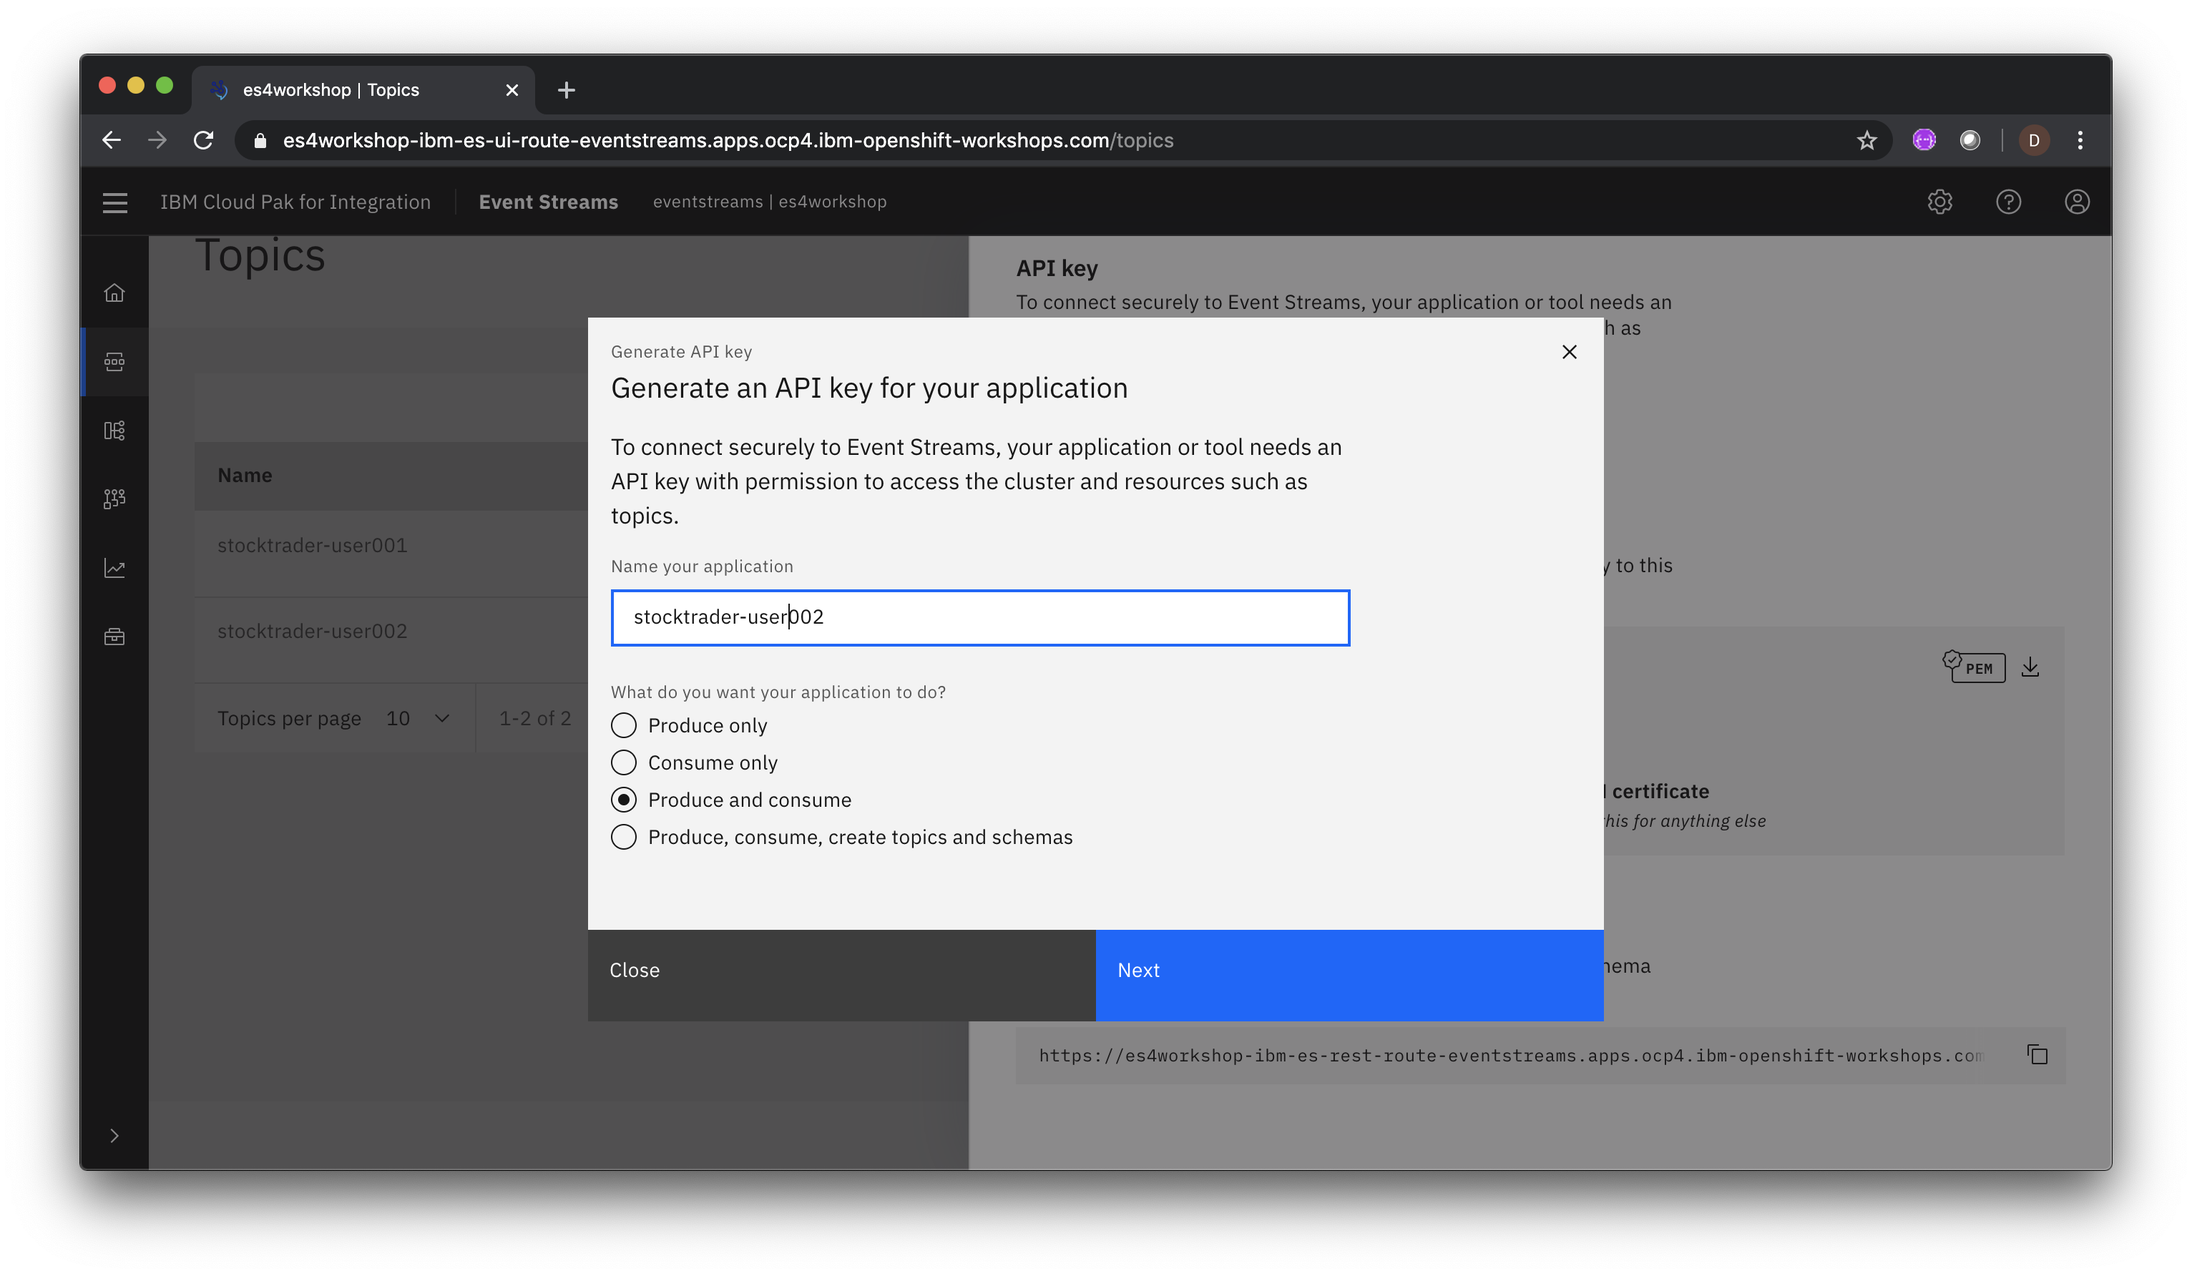
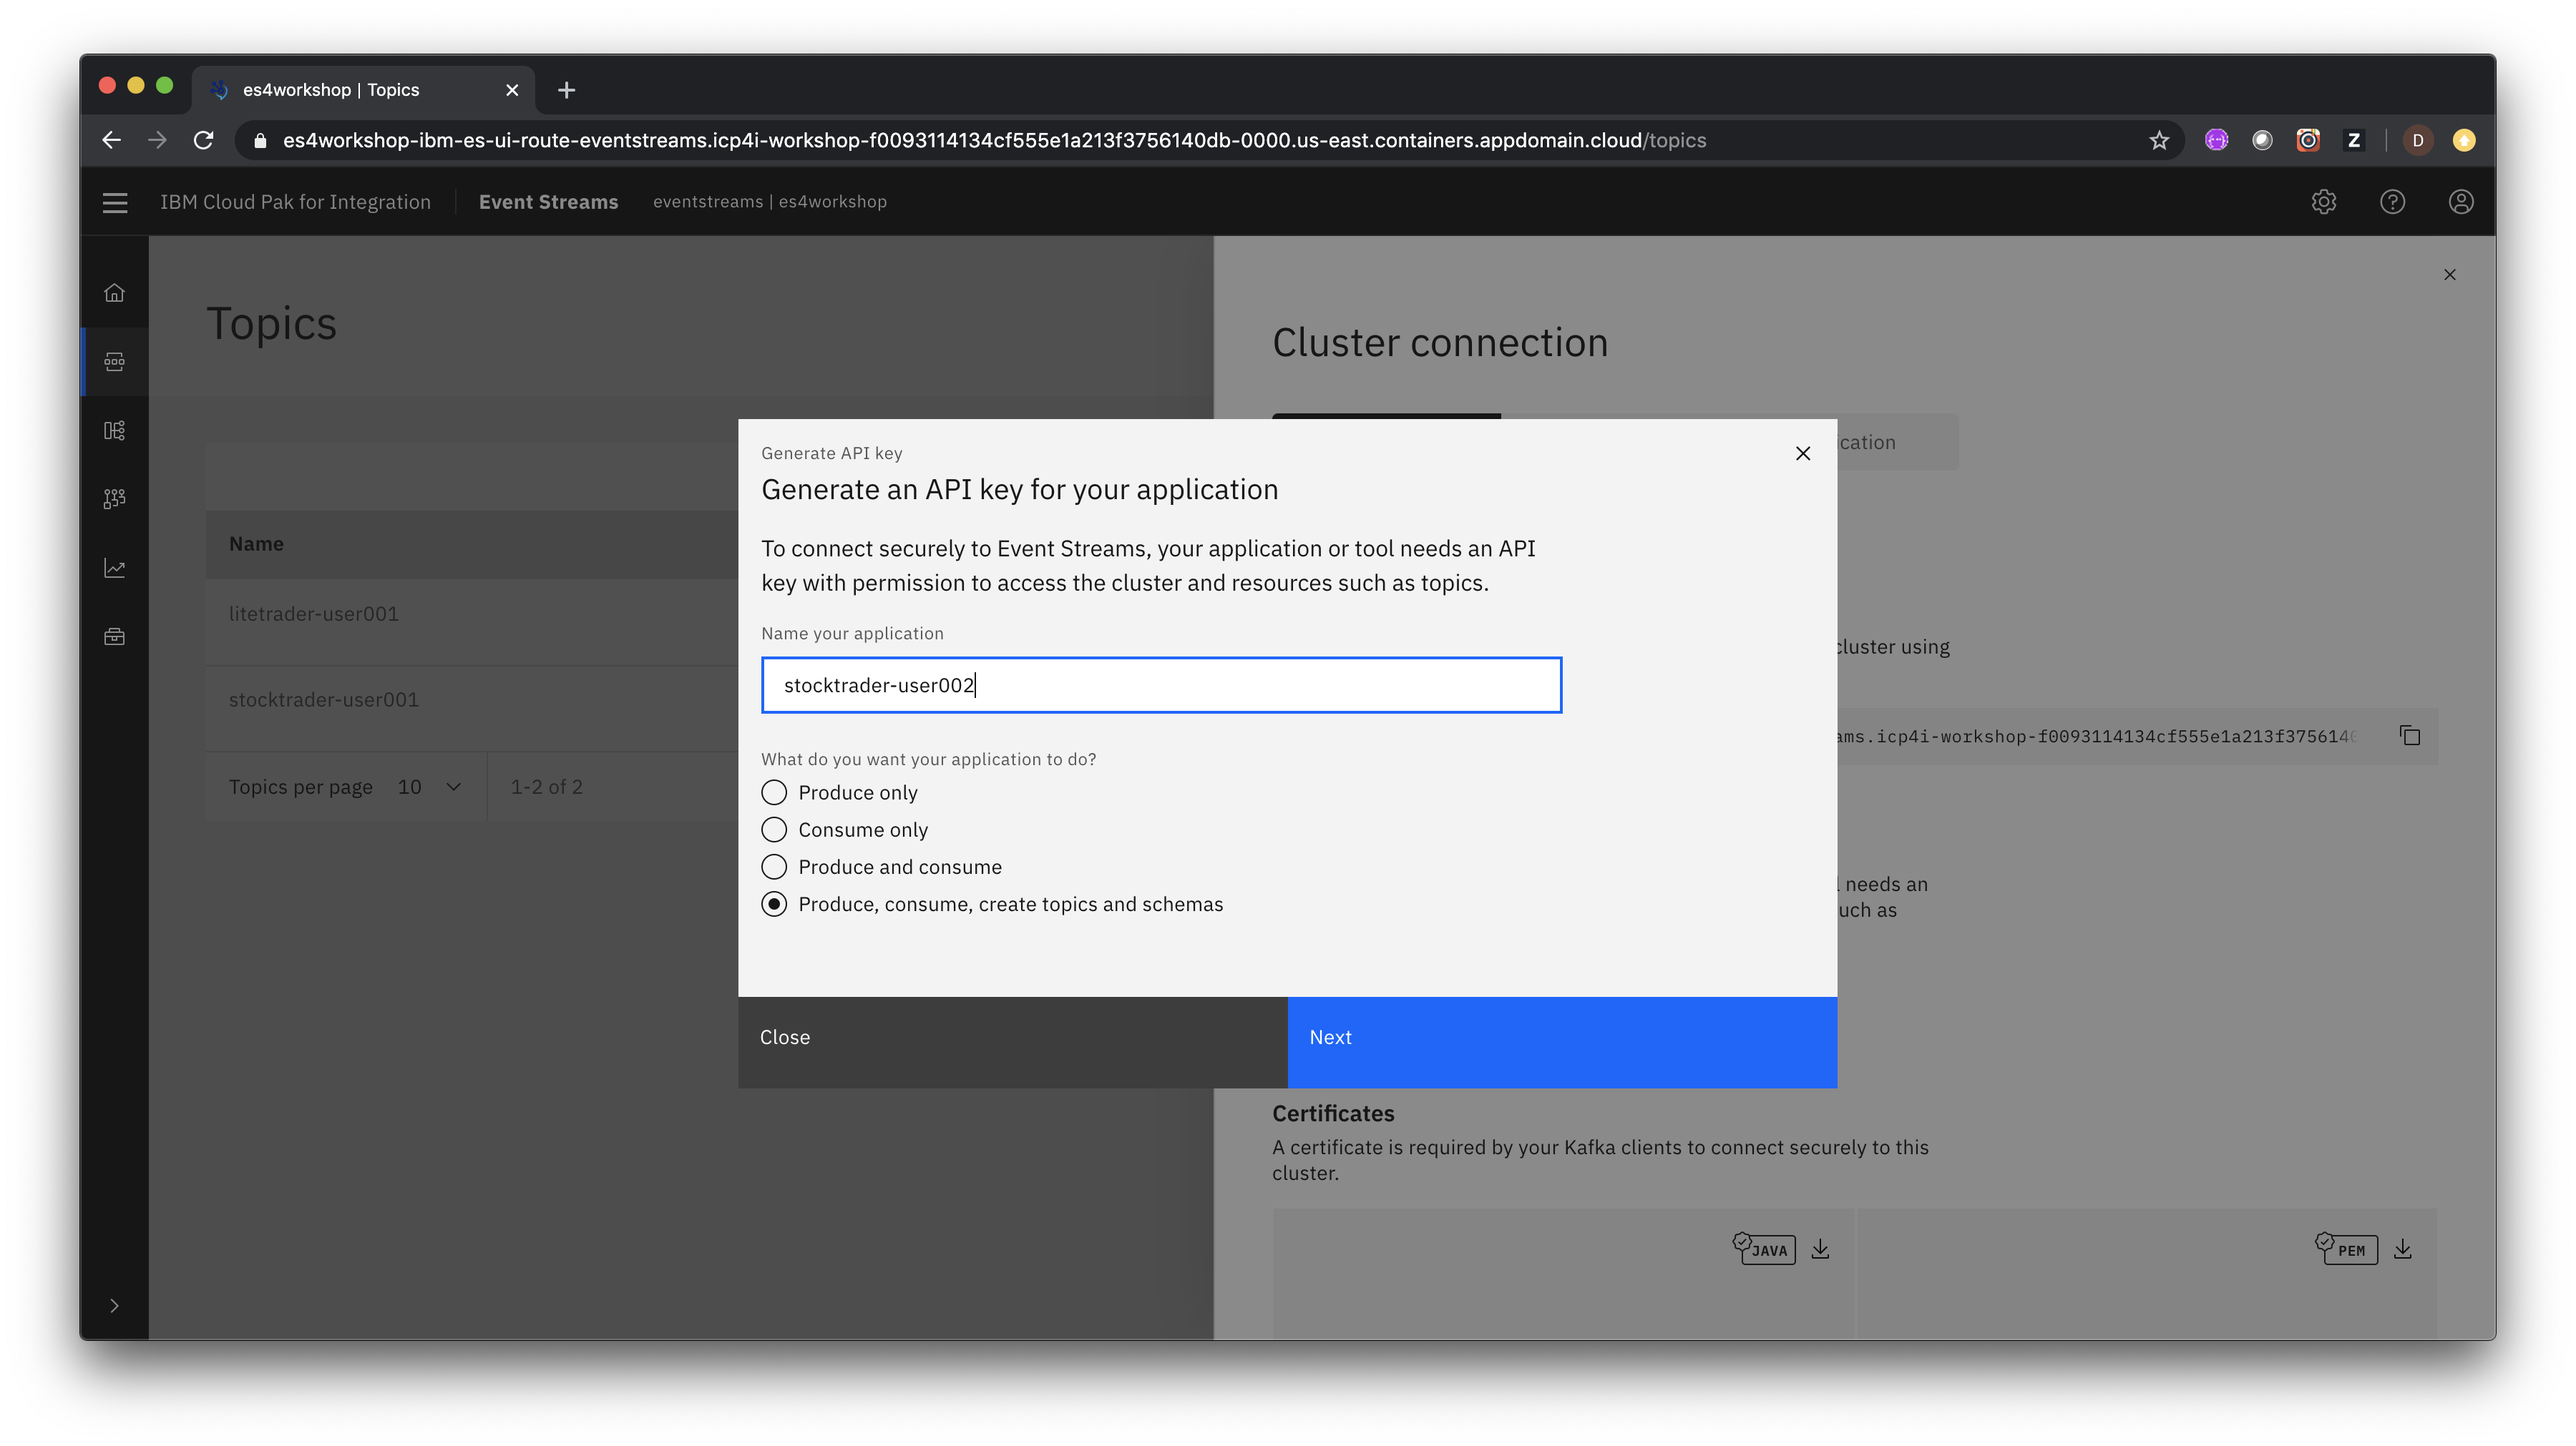
Updated to match updates in app

diff --git a/README.md b/README.md
@@ -14,9 +14,9 @@ The architecture of the solution you will build is shown below:
    * sends completed transactions to a local IBM MQ queue.
    * calls the **trade-history** service to get aggregated historical trade data.
 
-* The **event-producer** microservice consumes the  transaction data from IBM MQ and sends it to a topic in Event Streams. By scaling this service horizontally you can decrease the latency between the  time the transaction is committed to the transactional database and when it is available to be queried in the reporting database,
+* The **Kafka Connect** microservice uses the Kafka Connect framework and an IBM MQ source to consume the  transaction data from IBM MQ and sends it to a topic in Event Streams. By scaling this service horizontally you can decrease the latency between the  time the transaction is committed to the transactional database and when it is available to be queried in the reporting database,
 
-* The **event-consumer** microservice receives the transaction data from  Event Streams and calls the  **trade-history** service to publish the data to the reporting database. By scaling this service horizontally you can decrease the latency between the  time the transaction is committed to the transactional database and when it is available to be queried in the reporting database.
+* The **Kafka Connect** microservice uses the Kafka Connect framework and a Mongodb sink to receive the transaction data from  Event Streams and  publishes the data to the reporting database. By scaling this service horizontally you can decrease the latency between the  time the transaction is committed to the transactional database and when it is available to be queried in the reporting database.
 
 
 This lab is broken up into the following steps:
@@ -27,9 +27,9 @@ This lab is broken up into the following steps:
 
 1. [Upload the Java truststore to the IBM Cloud Shell](#step-3-upload-the-java-truststore-to-the-ibm-cloud-shell)
 
-1. [Add messaging components to the Stock Trader app](#step-4-add-messaging-components-to-the-stock-trader-app)
+1. [Add messaging components to the Trader Lite app](#step-4-add-messaging-components-to-the-trader-lite-app)
 
-1. [Generate some test data with the Stock Trader app](#step-5-generate-some-test-data-with-the-stock-trader-app)
+1. [Generate some test data with the Trader Lite app](#step-5-generate-some-test-data-with-the-trader-lite-app)
 
 1. [Verify transaction data was replicated to the Trade History database](#step-6-verify-transaction-data-was-replicated-to-the-trade-history-database)
 
@@ -77,11 +77,13 @@ This lab is broken up into the following steps:
 
 2.5 Name the application `stocktrader-user???` where `user???` is your assigned student id. For example if your student id is `user002` then name the application`stocktrader-user002`.
 
-2.6 Select **Produce and consume** for the capabilities of the API Key. Click **Next**.
+2.6 Select **Produce, consume, create topics and schemas** for the capabilities of the API Key. Click **Next**.
 
   ![API Key capabilities](images/api-key-capabilities.png)
 
-2.7 Enter the name of your topic e.g. `stocktrader-user002`. Click **Next**.
+2.7 Select all topics. Click **Next**.
+
+  ![All topics](images/all-topics.png)
 
 2.8 Click **Generate API key**
 
@@ -106,35 +108,66 @@ This lab is broken up into the following steps:
 3.2 Select the file **es-cert.jks** that you downloaded in the previous step and follow the prompts to upload it to the IBM Cloud Shell.
 
 
-## Step 4: Add messaging components to the Stock Trader app
+## Step 4: Add messaging components to the Trader Lite app
 
-4.1 you haven't previously cloned the Github repo with the Stock Trader app deployment artifacts, run the following command in the IBM Cloud Shell
+4.1 you haven't previously cloned the Github repo with the Trader Lite app deployment artifacts, run the following command in the IBM Cloud Shell
 
 ```
-git clone https://github.com/IBMStockTraderLite/stocktrader-cp4i.git
+git clone https://github.com/IBMStockTraderLite/traderlite-cp4i.git
 ```
 
 4.2 Go to the directory required to run the setup scripts
 
 ```
-cd stocktrader-cp4i/scripts
+cd traderlite-cp4i/scripts
 ```
 
 4.3 Run the following command, substituting the Bootstrap hostname and API Key that you saved earlier. Note that the third parameter is the Java truststore file that you just uploaded.
 
 ```
-./addMessaging.sh [BOOTSTRAP SERVER HOSTNAME] [YOUR API KEY] ../../es-cert.jks
+./addKafkaIntegration.sh [BOOTSTRAP SERVER HOSTNAME] [YOUR API KEY] ../../es-cert.jks
 ```
   The output should look like the following:
 
-  ![Add messaging script](images/add-messaging-script.png)
+  ```
+Script being run from correct folder
+Validating student id  ...
+Verifying that the Trader Lite Helm chart is already installed ...
+Found the Trader Lite Helm chart installed in this project
+Using stocktrader-user001 as Kafka topic name ...
+Upgrading Trader Lite Helm chart with Kafka Integration enabled ...
+Release "traderlite" has been upgraded. Happy Helming!
+NAME: traderlite
+LAST DEPLOYED: Mon Jun  1 12:17:51 2020
+NAMESPACE: trader-user001
+STATUS: deployed
+REVISION: 2
+NOTES:
+Trader Lite V2.0 is deployed.
 
-4.4 Wait for all the pods to start. Run the following command repeatedly until all the pods are in the *Ready* state as shown below
+Run  the following command to get the URL of  the applications's UI:
+ echo "http://"`oc get route traderlite-tradr  -o jsonpath='{.spec.host }'`"/tradr"
+Wait for all pods to be in the 'Ready' state before continuing
+  ```
+
+4.4 Wait for all the pods to start. Run the following command.
 
 ```
-oc get pods | grep -v deploy
+oc get pods
 ```
-  ![Pods running](images/pods-running.png)
+  Repeat the command until all the pods are in the *Ready* state as shown below:
+
+  ```
+NAME                                                   READY   STATUS    RESTARTS   AGE
+traderlite-ibm-mq-0                                    1/1     Running   0          64s
+traderlite-kafka-connect-standalone-5f4dcbb546-pq7qx   1/1     Running   0          66s
+traderlite-mariadb-0                                   1/1     Running   0          44m
+traderlite-mongodb-6c79bf9554-kd5z8                    1/1     Running   0          44m
+traderlite-portfolio-6d55889b8c-6c28l                  1/1     Running   0          65s
+traderlite-stock-quote-7965448598-lzwqh                1/1     Running   0          44m
+traderlite-trade-history-5648f749c4-5hbhq              1/1     Running   0          44m
+traderlite-tradr-6cd8d879f4-hbcfr                      1/1     Running   0          44m
+  ```
 
 
 ## Step 5: Generate some test data with the Stock Trader app
@@ -142,7 +175,7 @@ oc get pods | grep -v deploy
 5.1 From the command line run the following script:
 
 ```
-./showTradrURL.sh
+./showTradrUrl.sh
 ```
 
 5.2 Copy the URL that is output and access it with your browser
@@ -169,7 +202,7 @@ oc get pods | grep -v deploy
 6.1 From the  IBM Cloud Shell terminal, run the following command to show the Trader History service URL for listing trade data
 
 ```
-./showHistoryURL.sh
+./showHistoryUrl.sh
 ```
 
 6.2 Copy the URL that is output and access it with your browser
@@ -205,6 +238,6 @@ Congratulations ! You successfully completed the following key steps in this lab
 
 * Created an Event Streams topic
 * Retrieved all the credentials needed to access the topic from  an application .
-* Configured the Stock Trader app to use your topic
-* Generated transactions in the Stock Trader app and verified that the data is being replicated via Event Streams.
+* Configured the Trader Lite app to use your topic
+* Generated transactions in the Trader Lite app and verified that the data is being replicated via Event Streams.
 * Examined messages sent to your topic in the Event Streams Management console.
